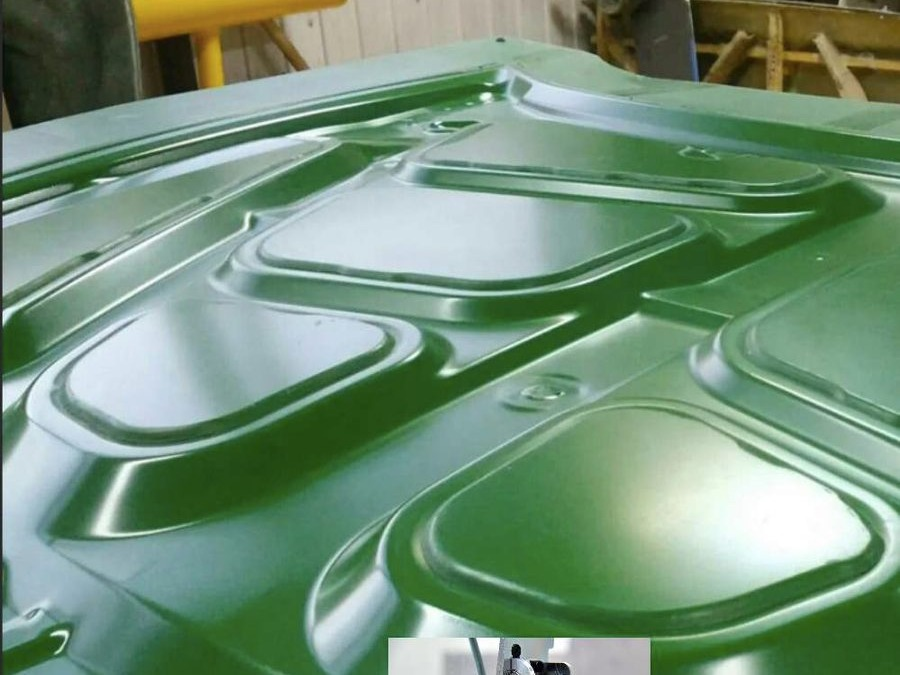
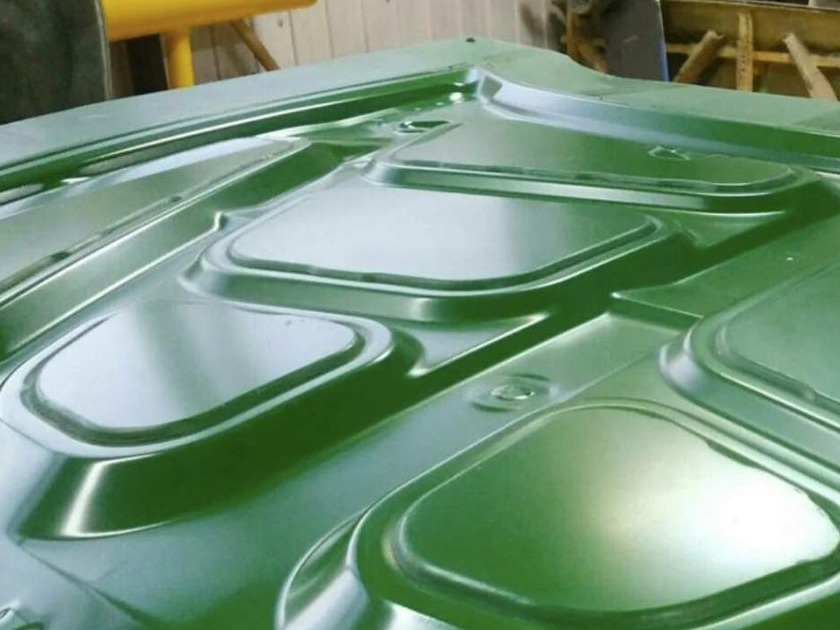
Audit fixes: wrong S-Class frame, mould photo edge, heading breaks
- Armoured S-Class gallery: frame 01 was the same picture as 02 while its
  caption says "monitor raised"; now it is the monitor-raised frame.
- Mould photo: a strip of the neighbouring slide picture along the bottom
  edge is cut off. Both files are excluded from the library re-cut.
- h1-h3: short hyphenated words (Mercedes-Benz, S-Class) stay on one line.
- Home: air under the hero figures and between a heading and its metrics.

Claude-Session: https://claude.ai/code/session_018Up9vaen5YftuZUd9r9NLS

diff --git a/static/css/site.css b/static/css/site.css
@@ -292,6 +292,10 @@ p { margin: 0 0 1.25rem; max-width: 64ch; }
 /* -------------------------------------------------------------------- hero */
 
 .hero { position: relative; }
+/* the figures under the photograph are the last thing in the hero: without
+   this their second line sat on the edge of the next section */
+.hero > .shell { padding-bottom: clamp(2.5rem, 5vw, 4rem); }
+.nb { white-space: nowrap; }
 /* Photograph, veil and text share one grid cell, so the frame is as tall as
    the photograph or the text, whichever needs more. A three-line Russian
    headline on a short laptop screen no longer climbs into the caption and
@@ -512,6 +516,7 @@ p { margin: 0 0 1.25rem; max-width: 64ch; }
 /* ----------------------------------------------------------------- metrics */
 
 .metrics { display: grid; grid-template-columns: repeat(3, minmax(0, 1fr)); gap: var(--gap); margin: 0; }
+.h2 + .metrics { margin-top: clamp(2rem, 3.5vw, 3rem); }
 .metrics__item { margin: 0; }
 .metrics__value {
   font-family: var(--display);

diff --git a/build.py b/build.py
@@ -15,6 +15,7 @@ import argparse
 import html
 import json
 import os
+import re
 import shutil
 import sys
 from datetime import date
@@ -125,6 +126,25 @@ def content_for(lang):
     return data
 
 
+
+_HEADING = re.compile(r"(<(h[1-3])\b[^>]*>)(.*?)(</\2>)", re.S)
+_HYPHENATED = re.compile(r"(?<![\w&-])(\w+(?:-\w+)+)(?![\w-])")
+
+
+def keep_hyphenated(page: str) -> str:
+    """Headings are narrow and balanced, and the browser is free to break at
+    a hyphen: "Mercedes-/Benz Sprinter", "S-/Class V222". Short hyphenated
+    words in h1-h3 are kept on one line."""
+    def heading(m):
+        inner = m.group(3)
+        if "<" in inner:            # nested markup: leave alone
+            return m.group(0)
+        inner = _HYPHENATED.sub(
+            lambda w: f'<span class="nb">{w.group(1)}</span>' if len(w.group(1)) <= 16 else w.group(1),
+            inner)
+        return m.group(1) + inner + m.group(4)
+    return _HEADING.sub(heading, page)
+
 def build():
     MISSING_IMAGES.clear()
     UNTRANSLATED.clear()
@@ -215,7 +235,7 @@ def build():
 
             out_dir = DIST / page["url"].strip("/")
             out_dir.mkdir(parents=True, exist_ok=True)
-            (out_dir / "index.html").write_text(rendered, encoding="utf-8")
+            (out_dir / "index.html").write_text(keep_hyphenated(rendered), encoding="utf-8")
 
             if not page.get("noindex"):
                 all_urls.append(

diff --git a/tools/upgrade_from_library.py b/tools/upgrade_from_library.py
@@ -31,7 +31,15 @@ ROOT = pathlib.Path(__file__).parent.parent
 SITE = ROOT / "static" / "img"
 
 # founder/* comes from the project archives and scans, not from the web library
-SKIP_PREFIXES = ("founder/",)
+SKIP_PREFIXES = (
+    "founder/",
+    # corrected by hand, 13 Nov 2026 — a re-cut would undo it:
+    # 01 was matched to the same library frame as 02 (glass opaque); it is the
+    # monitor-raised frame, cut from the cover. The mould had a strip of the
+    # neighbouring slide picture along its bottom edge.
+    "portfolio/s-class-v222/01.jpg",
+    "manufacturing/mould-panel-forming.jpg",
+)
 
 
 def gray(path, width=None):
